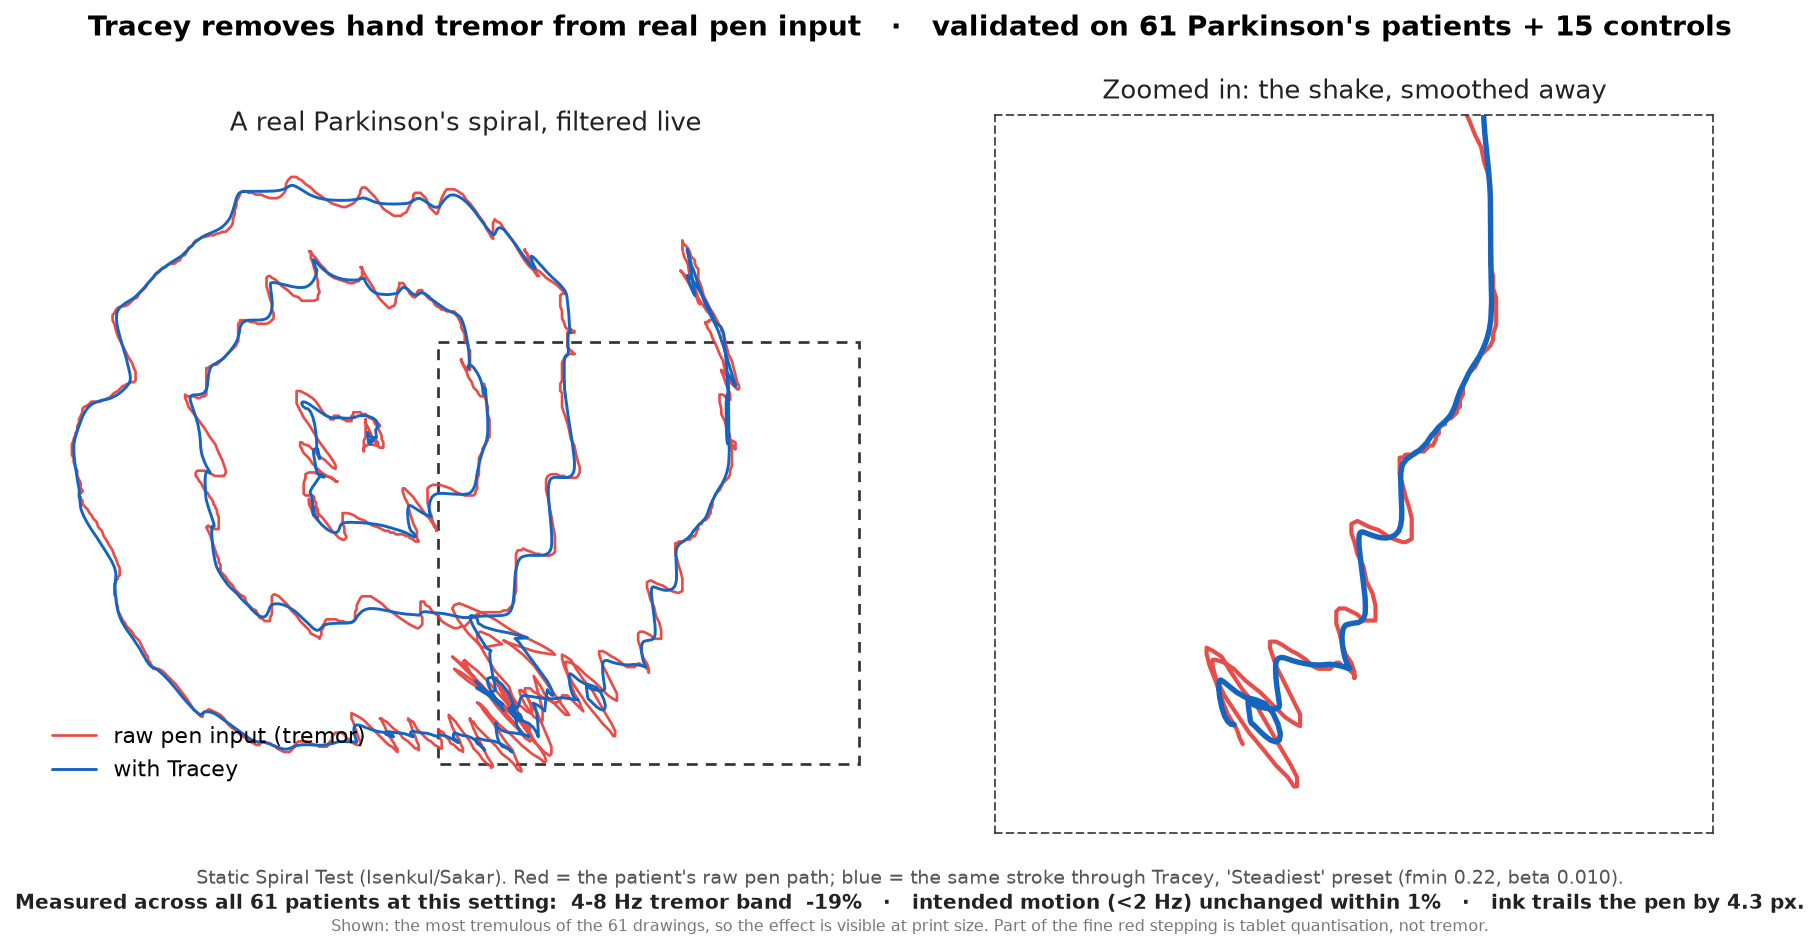
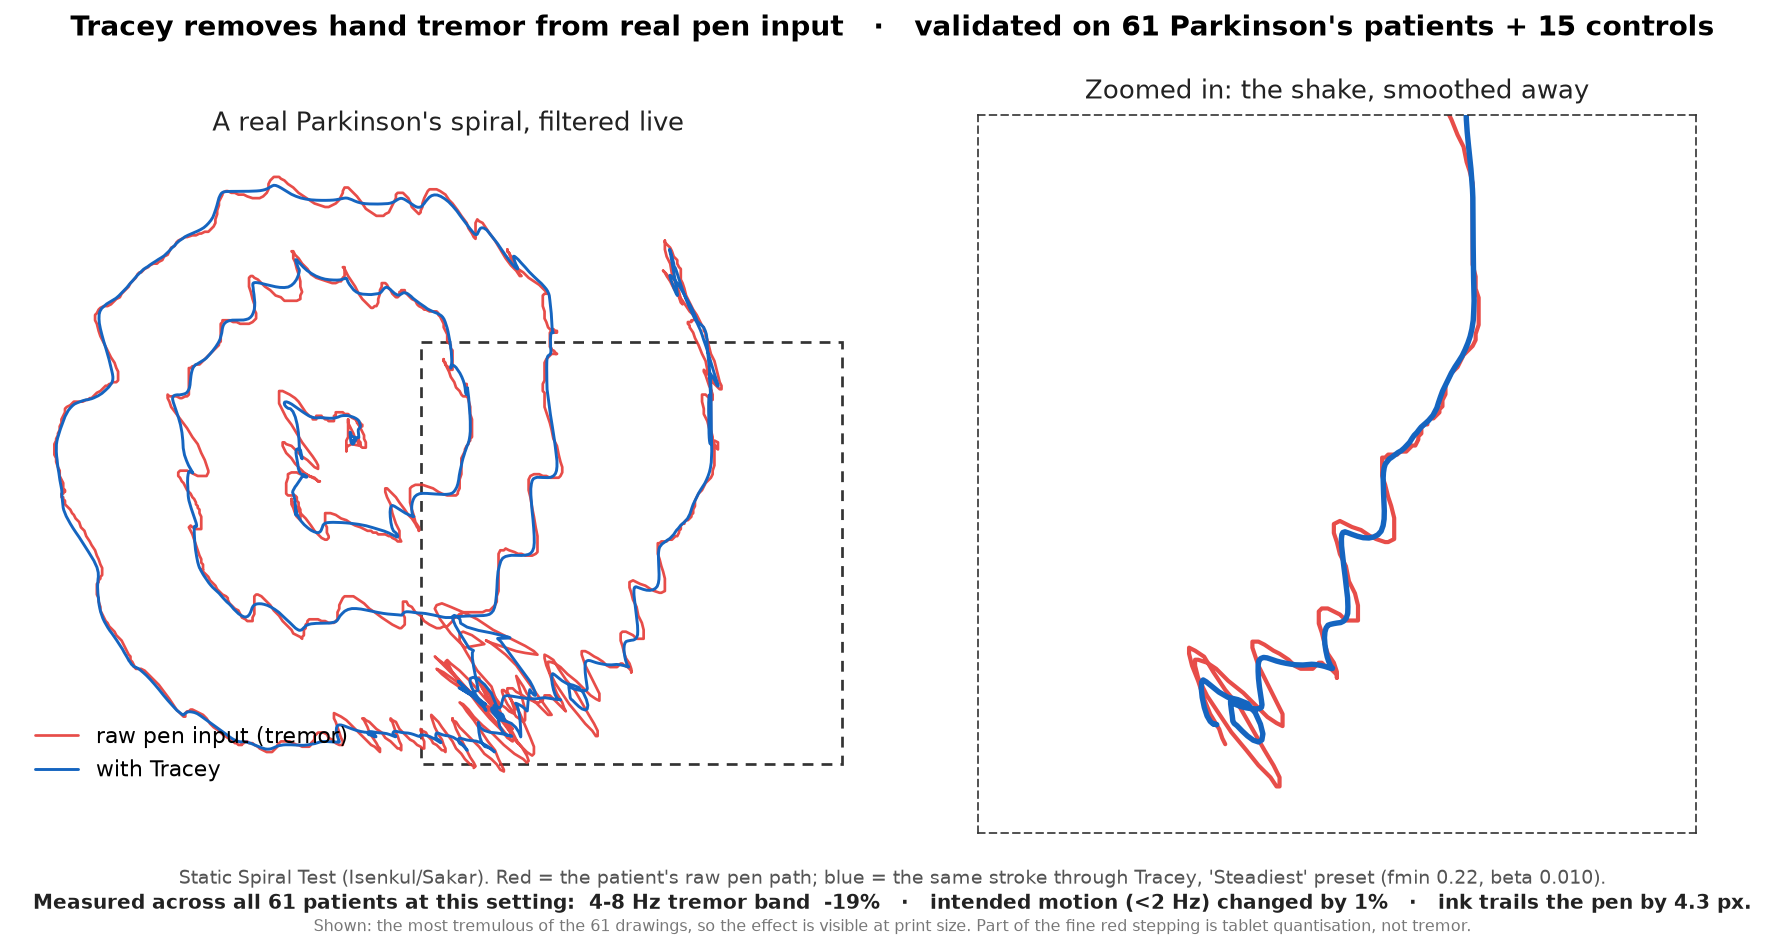
the headline table said Steadiest over three Balanced rows, and the proudest claim was under 1% at a preset where it is 1.03%
Symptom: VALIDATION.md's preamble said 'All figures below are at the UI's
Steadiest preset', but analyze_spirals.py computes the excess-travel,
intended-motion and total-path rows only in its first block, which is
hardcoded to oneeuro(x, t, 0.40, 0.020), the Balanced default. Recomputed
at Steadiest those three read 92.4/70.3%, -6.5/-1.0% and 13.2/11.0%, not
the published 90.4/63.7%, -3.9/-0.6% and 12.9/10.0%. The 'changing the
person's intended motion by under 1%' sentence then paired a Balanced
0.64% with the Steadiest 19.0% in one breath, and the committed figure
repeated 'unchanged within 1%' in a caption rendered at Steadiest, where
the true value is 1.03%.

Cause: the rows come from two presets and the document labelled them as
one; the sub-1% figure was quoted from the other preset.

Fix: every row now carries its own preset tag and the preamble states why
two appear; the headline says about 1% and gives both values with their
presets; the figure script's caption and header comment say 'changed by
1%' and record which preset the pair must be quoted at. validation_spiral.png
is regenerated with the corrected caption (same drawing, same overlay and
zoom, verified by eye against the previous asset).

diff --git a/src/make_validation_figure.py b/src/make_validation_figure.py
@@ -10,7 +10,9 @@ fmin=0.15 beta=0.012, which is in neither preset table - close to Steadiest in
 effect, but not a setting any user can select. It now uses the UI's Steadiest card
 verbatim, so the figure shows exactly what clicking Steadiest does. Measured on all
 61 PD drawings at this setting: 4-8 Hz tremor -19.0%, intended motion (<2 Hz)
-unchanged within 1%, ink trailing the pen by 4.25 px.
+changed by 1.0%, ink trailing the pen by 4.25 px. That last pair must be quoted at
+THIS preset: the sub-1% figure VALIDATION used to print here is the Balanced one
+(0.64%), and the caption is rendered at Steadiest.
 
 Output PNG is committed as a submission asset (the dataset is gitignored, so it cannot be
 regenerated without restoring it first).
@@ -164,7 +166,7 @@ fig.text(0.5, 0.055,
          ha="center", fontsize=9, color="#555")
 fig.text(0.5, 0.028,
          "Measured across all 61 patients at this setting:  4-8 Hz tremor band  -19%   ·   "
-         "intended motion (<2 Hz) unchanged within 1%   ·   ink trails the pen by 4.3 px.",
+         "intended motion (<2 Hz) changed by 1%   ·   ink trails the pen by 4.3 px.",
          ha="center", fontsize=9.5, color="#222", weight="bold")
 fig.text(0.5, 0.004,
          "Shown: the most tremulous of the 61 drawings, so the effect is visible at print size. "

diff --git a/VALIDATION.md b/VALIDATION.md
@@ -33,17 +33,21 @@ PD file has an empty Static-Spiral segment).
 ## What Tracey does, measured
 Fitting each drawing's *intended* spiral and comparing raw vs. filtered pen paths:
 
-All figures below are at the UI's **Steadiest** preset (`fmin 0.22, beta 0.010`), the same setting
-the figure and the GIF are rendered with, so what you see is what the numbers describe.
+Two presets appear in the table below and each row says which, because they are not
+interchangeable. The frequency-band rows are at the UI's **Steadiest** preset
+(`fmin 0.22, beta 0.010`), the setting the figure and the GIF are rendered with. The three
+path-and-motion rows come from `analyze_spirals.py`'s first block, which is hardcoded to the
+shipped default, **Balanced** (`fmin 0.40, beta 0.020`); they are marked *(Balanced)*. Quoting a
+Steadiest header over a Balanced number is exactly the kind of mix this document exists to avoid.
 
 | metric | control (n=15) | Parkinson's (n=61) |
 |---|---|---|
-| tremor size (deviation from the intended spiral) | 2.7 px | **9.5 px (≈3.5× more)** |
-| **4–8 Hz tremor band removed** (clinical PD + essential band) | 18.3% | **19.0%** |
-| excess pen travel removed (wiggle above the intended shape) | 90.4% | **63.7%** |
-| >15 Hz removed (digitizer noise, *not* visible shake) | 33.1% | 19.6% |
-| intended motion (<2 Hz) changed | −3.9% | **−0.6%** |
-| total path length removed (incl. the spiral itself) | 12.9% | 10.0% |
+| tremor size (deviation from the intended spiral) *(raw input; preset-independent)* | 2.7 px | **9.5 px (≈3.5× more)** |
+| **4–8 Hz tremor band removed** (clinical PD + essential band) *(Steadiest)* | 18.3% | **19.0%** |
+| excess pen travel removed (wiggle above the intended shape) *(Balanced)* | 90.4% | **63.7%** |
+| >15 Hz removed (digitizer noise, *not* visible shake) *(Steadiest)* | 33.1% | 19.6% |
+| intended motion (<2 Hz) changed *(Balanced)* | −3.9% | **−0.6%** |
+| total path length removed (incl. the spiral itself) *(Balanced)* | 12.9% | 10.0% |
 
 *Both cells of the 4–8 Hz row are the same statistic: each drawing's own reduction, averaged over
 the group, so the two columns are comparable and every drawing counts equally. The other rows are
@@ -54,8 +58,9 @@ same pair reads 16.3% and 20.7%.*
 
 Tracey removes **19% of the tremor band a neurologist would name** (the 4–8 Hz range covering
 Parkinson's rest tremor and essential tremor) while changing the person's *intended* motion by
-**under 1%**. That second number is the one we are proudest of: many smoothers buy their smoothness
-by eating the stroke.
+**about 1%** (1.03% at Steadiest, the setting that 19% is measured at; 0.64% at Balanced). That
+second number is the one we are proudest of: many smoothers buy their smoothness by eating the
+stroke. Both halves of that sentence are quoted at the same preset on purpose.
 
 **Note what the control column does and does not say.** Tracey removes a similar *proportion* of the
 4–8 Hz band from a steady hand as from a patient, 18.3% against 19.0%, and it should: it is a
